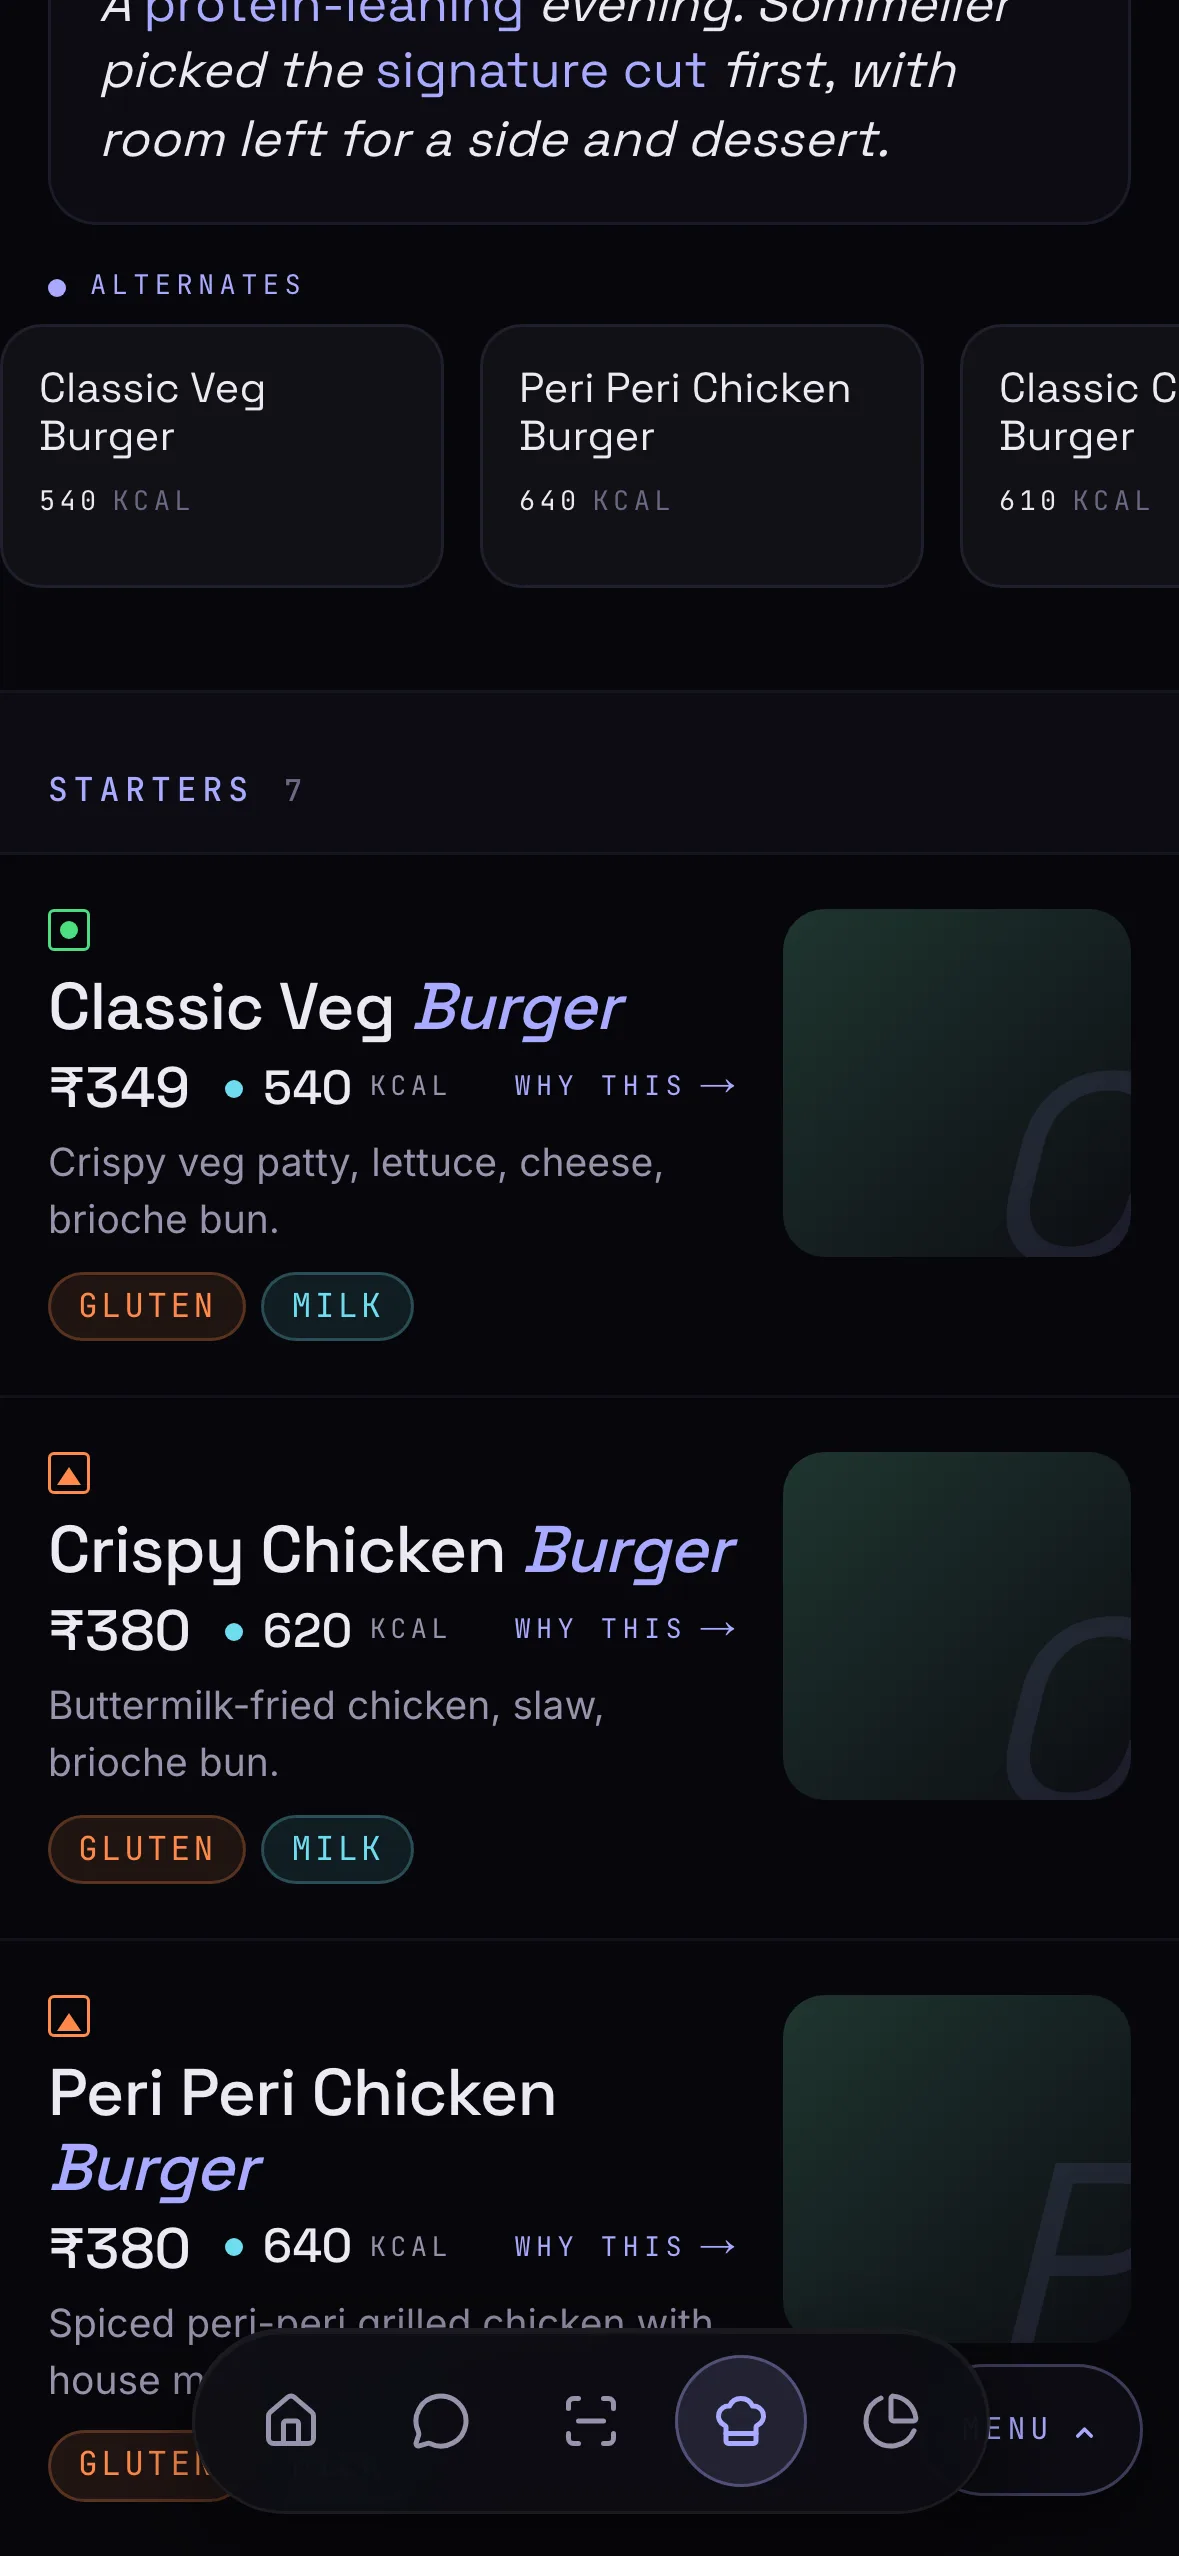
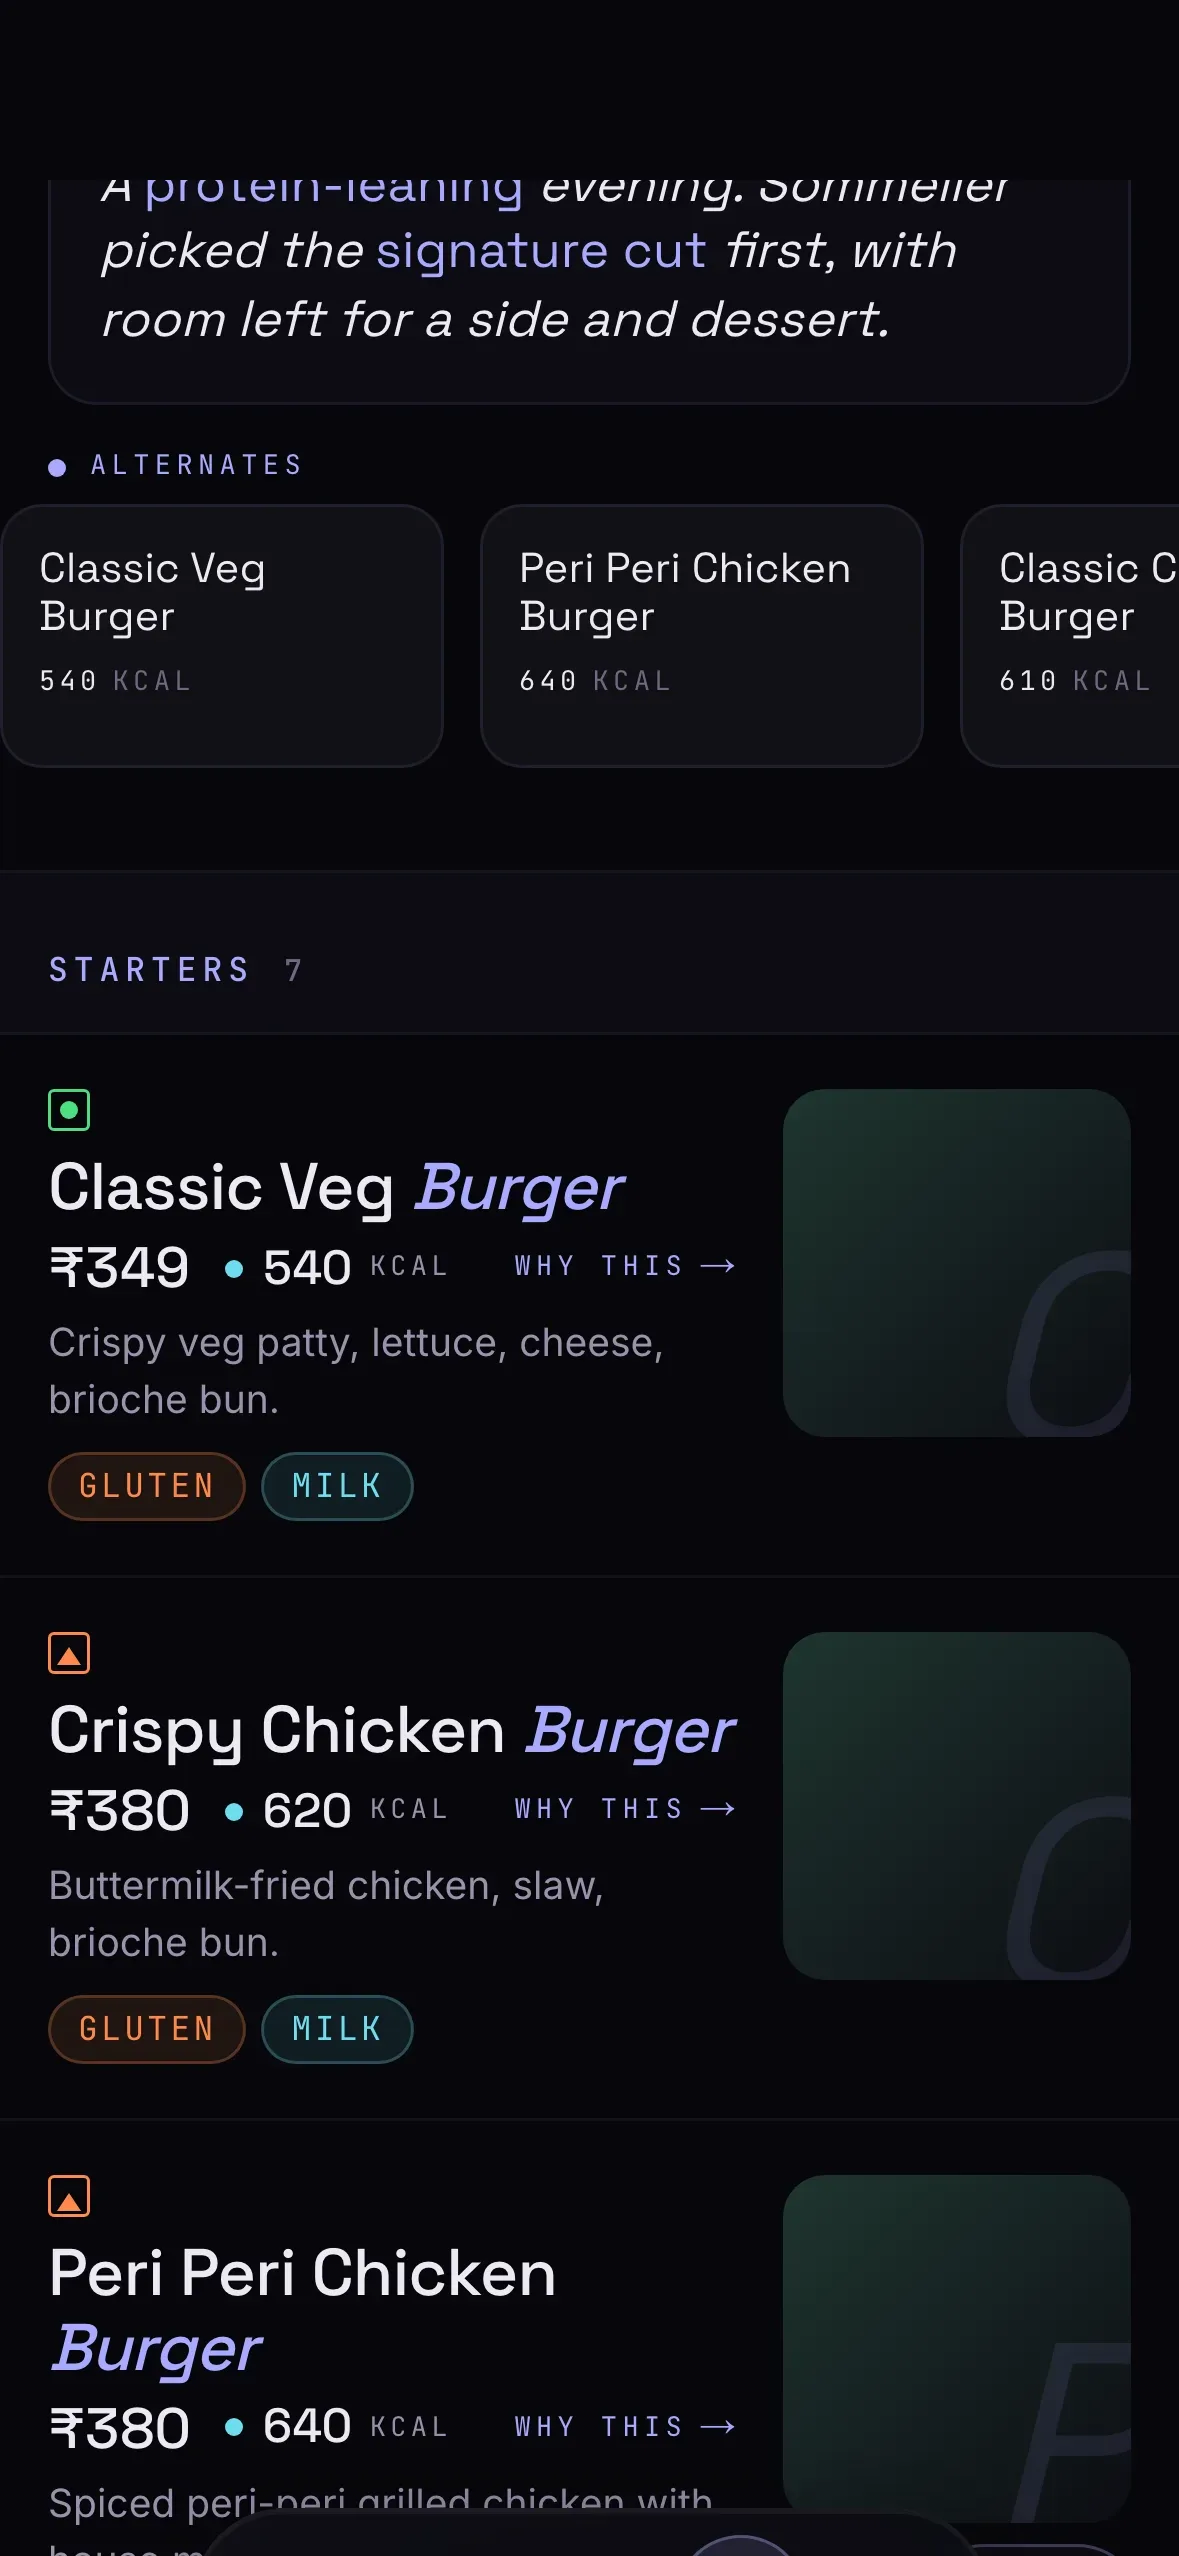
enhancement(mockups): replace 2nd mockup with Ninan menu render and audit notch alignment across all four (#24)
* feat(mockups): replace 2nd deck mockup with Ninan menu render

Replaces mockups/restaurants-browse.webp with a fresh capture of the
local ninan-menu-demo.html design source (the steakhouse menu detail
the user wants represented in deck card position 2). Same dimensions
(1179x2556, iPhone 14 Pro DPR 3), same in-frame safe-area, same file
size envelope (87KB) so the deck choreography and _headers cache rules
stay unchanged.

Notch alignment honoured: the captured frame leaves the top ~190px
(deck card notch zone) on the dark app-bar background so the notch
chrome does not occlude the brand, search, or first dish card. Cookie
banner pre-dismissed via localStorage seed; floating plate-pill hidden;
app-bar brand wordmark trimmed slightly to give the calorie + budget
meter cluster room to read.

Alt text refreshed to describe the menu detail semantics (filter chips,
alternates strip, dish cards with calorie + price labels).

* fix(mockups): pad ai-sommelier top with 180px dark band so deck notch no longer clips text

Backend tunnel is down (530) so a fresh /menu capture renders the
"can't reach the menu" error state. Instead of re-capturing live, this
shifts the existing ai-sommelier.webp content down by 180px and fills
the top band with the EF page bg (#07070b). The waitlist deck-card
iPhone-notch chrome now sits over the safe band, not over the
Sommelier reasoning card.

Closes the only outstanding audit fail from PR #24.

---------

diff --git a/index.html b/index.html
@@ -1258,7 +1258,7 @@
           <article class="deck__card" data-card="1" data-pos="1">
             <div class="deck__notch"></div>
             <div class="deck__screen">
-              <img class="deck__media" width="392" height="852" src="/mockups/restaurants-browse.webp" alt="EdibleFactor restaurant menu: Ninan's Steakhouse with veg, non-veg, bestseller filter chips and a Sommelier reasoning card" loading="lazy">
+              <img class="deck__media" width="392" height="852" src="/mockups/restaurants-browse.webp" alt="EdibleFactor menu detail: Ninan's Steakhouse with veg, non-veg, bestseller filter chips, alternates strip, and individual dish cards (Pepper Mushroom Soup, Caesar Salad) with calorie and price labels" loading="lazy">
             </div>
           </article>
           <article class="deck__card" data-card="2" data-pos="2">
